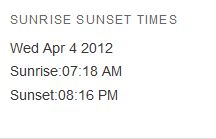
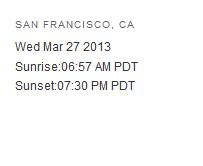
fixed date
git-svn-id: https://plugins.svn.wordpress.org/sunrise-sunset/trunk@688666 b8457f37-d9ea-0310-8a92-e5e31aec5664

diff --git a/utils.php b/utils.php
@@ -12,8 +12,8 @@ class SSUtils
         $time_format = 'Y-m-d';
         $currentTimezone = $city->getTimezone();
 
-        $dstStart = '2012-03-11';
-        $dstEnd = '2012-11-04';
+        $dstStart = date('Y') . '-03-11';
+        $dstEnd = date('Y') . '-11-04';
         $today = date($time_format, $timestamp);
 
         if ((($today >= $dstStart) && ($today <= $dstEnd))) {

diff --git a/sunrisesunset.php b/sunrisesunset.php
@@ -90,6 +90,7 @@ class sunrise_sunset extends WP_Widget
         $sunset_checkbox;
         $sunrise_checkbox;
         $friday_checkbox;
+		$hour_offset_checkbox;
 
         if ($instance['showsunset']) {
             $sunset_checkbox = sprintf('<input type="checkbox" name="%s" value="%s" checked/> Display Sunset Time', $field_sunset, $field_sunset);
